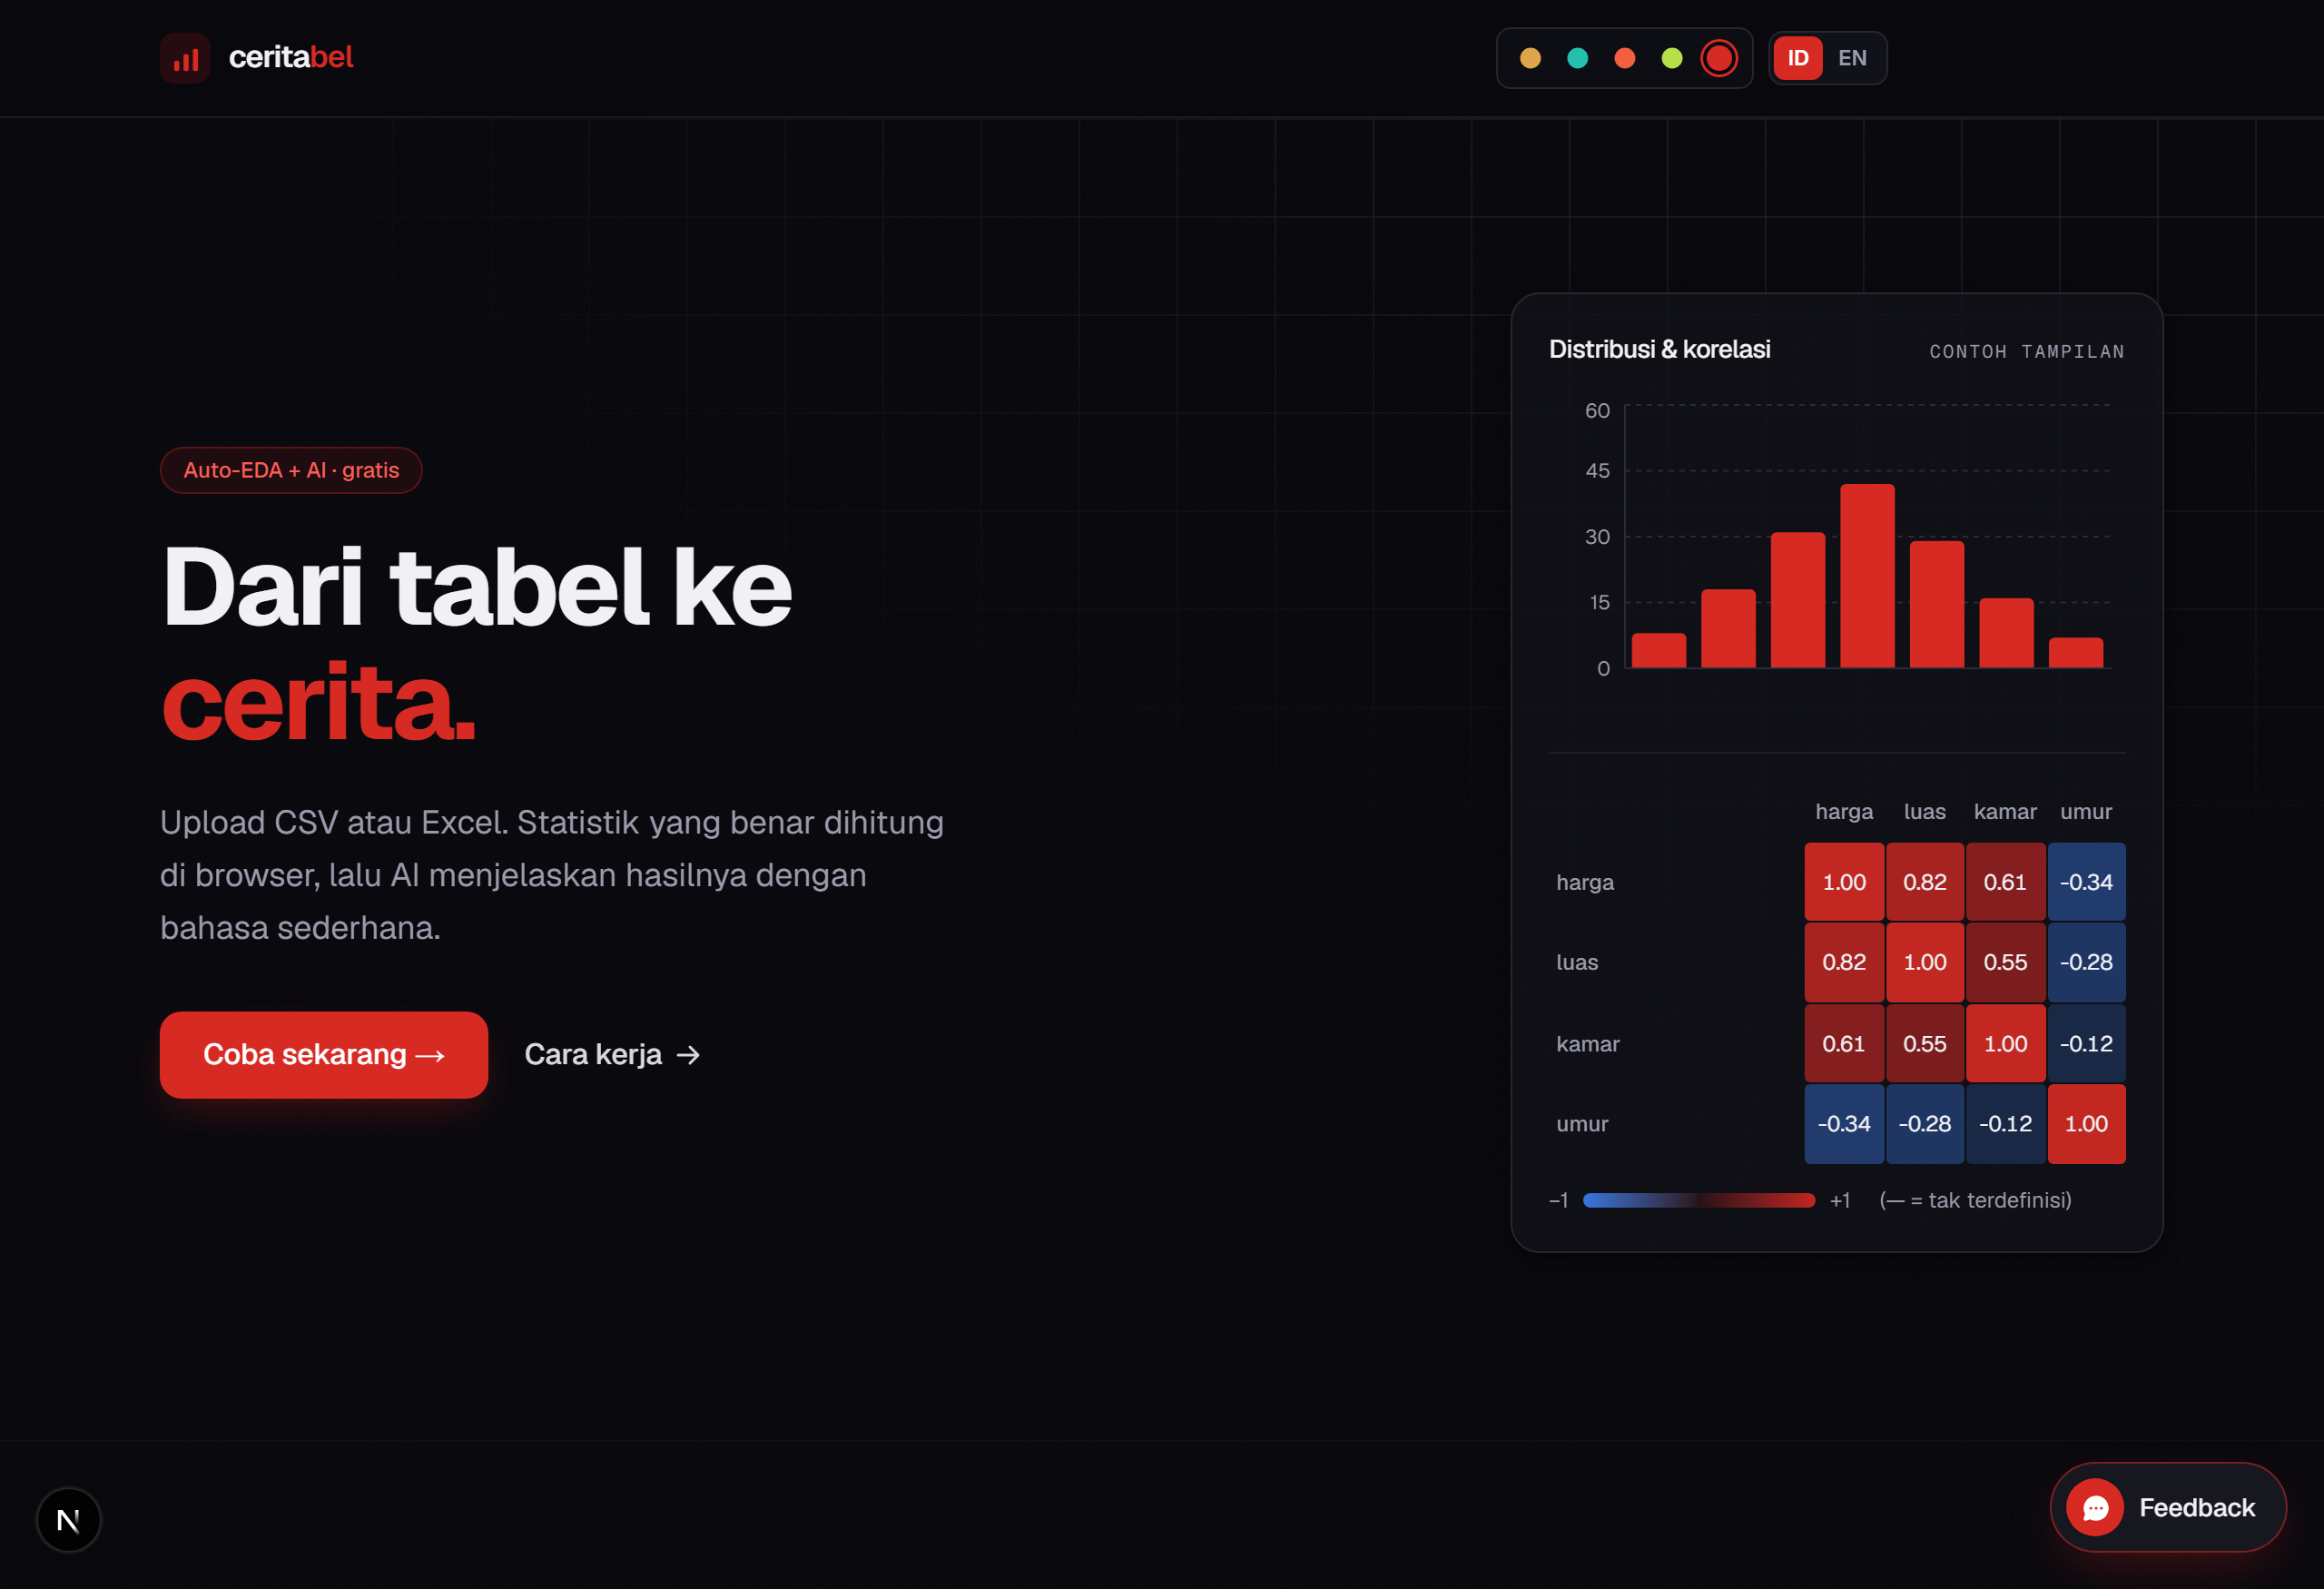
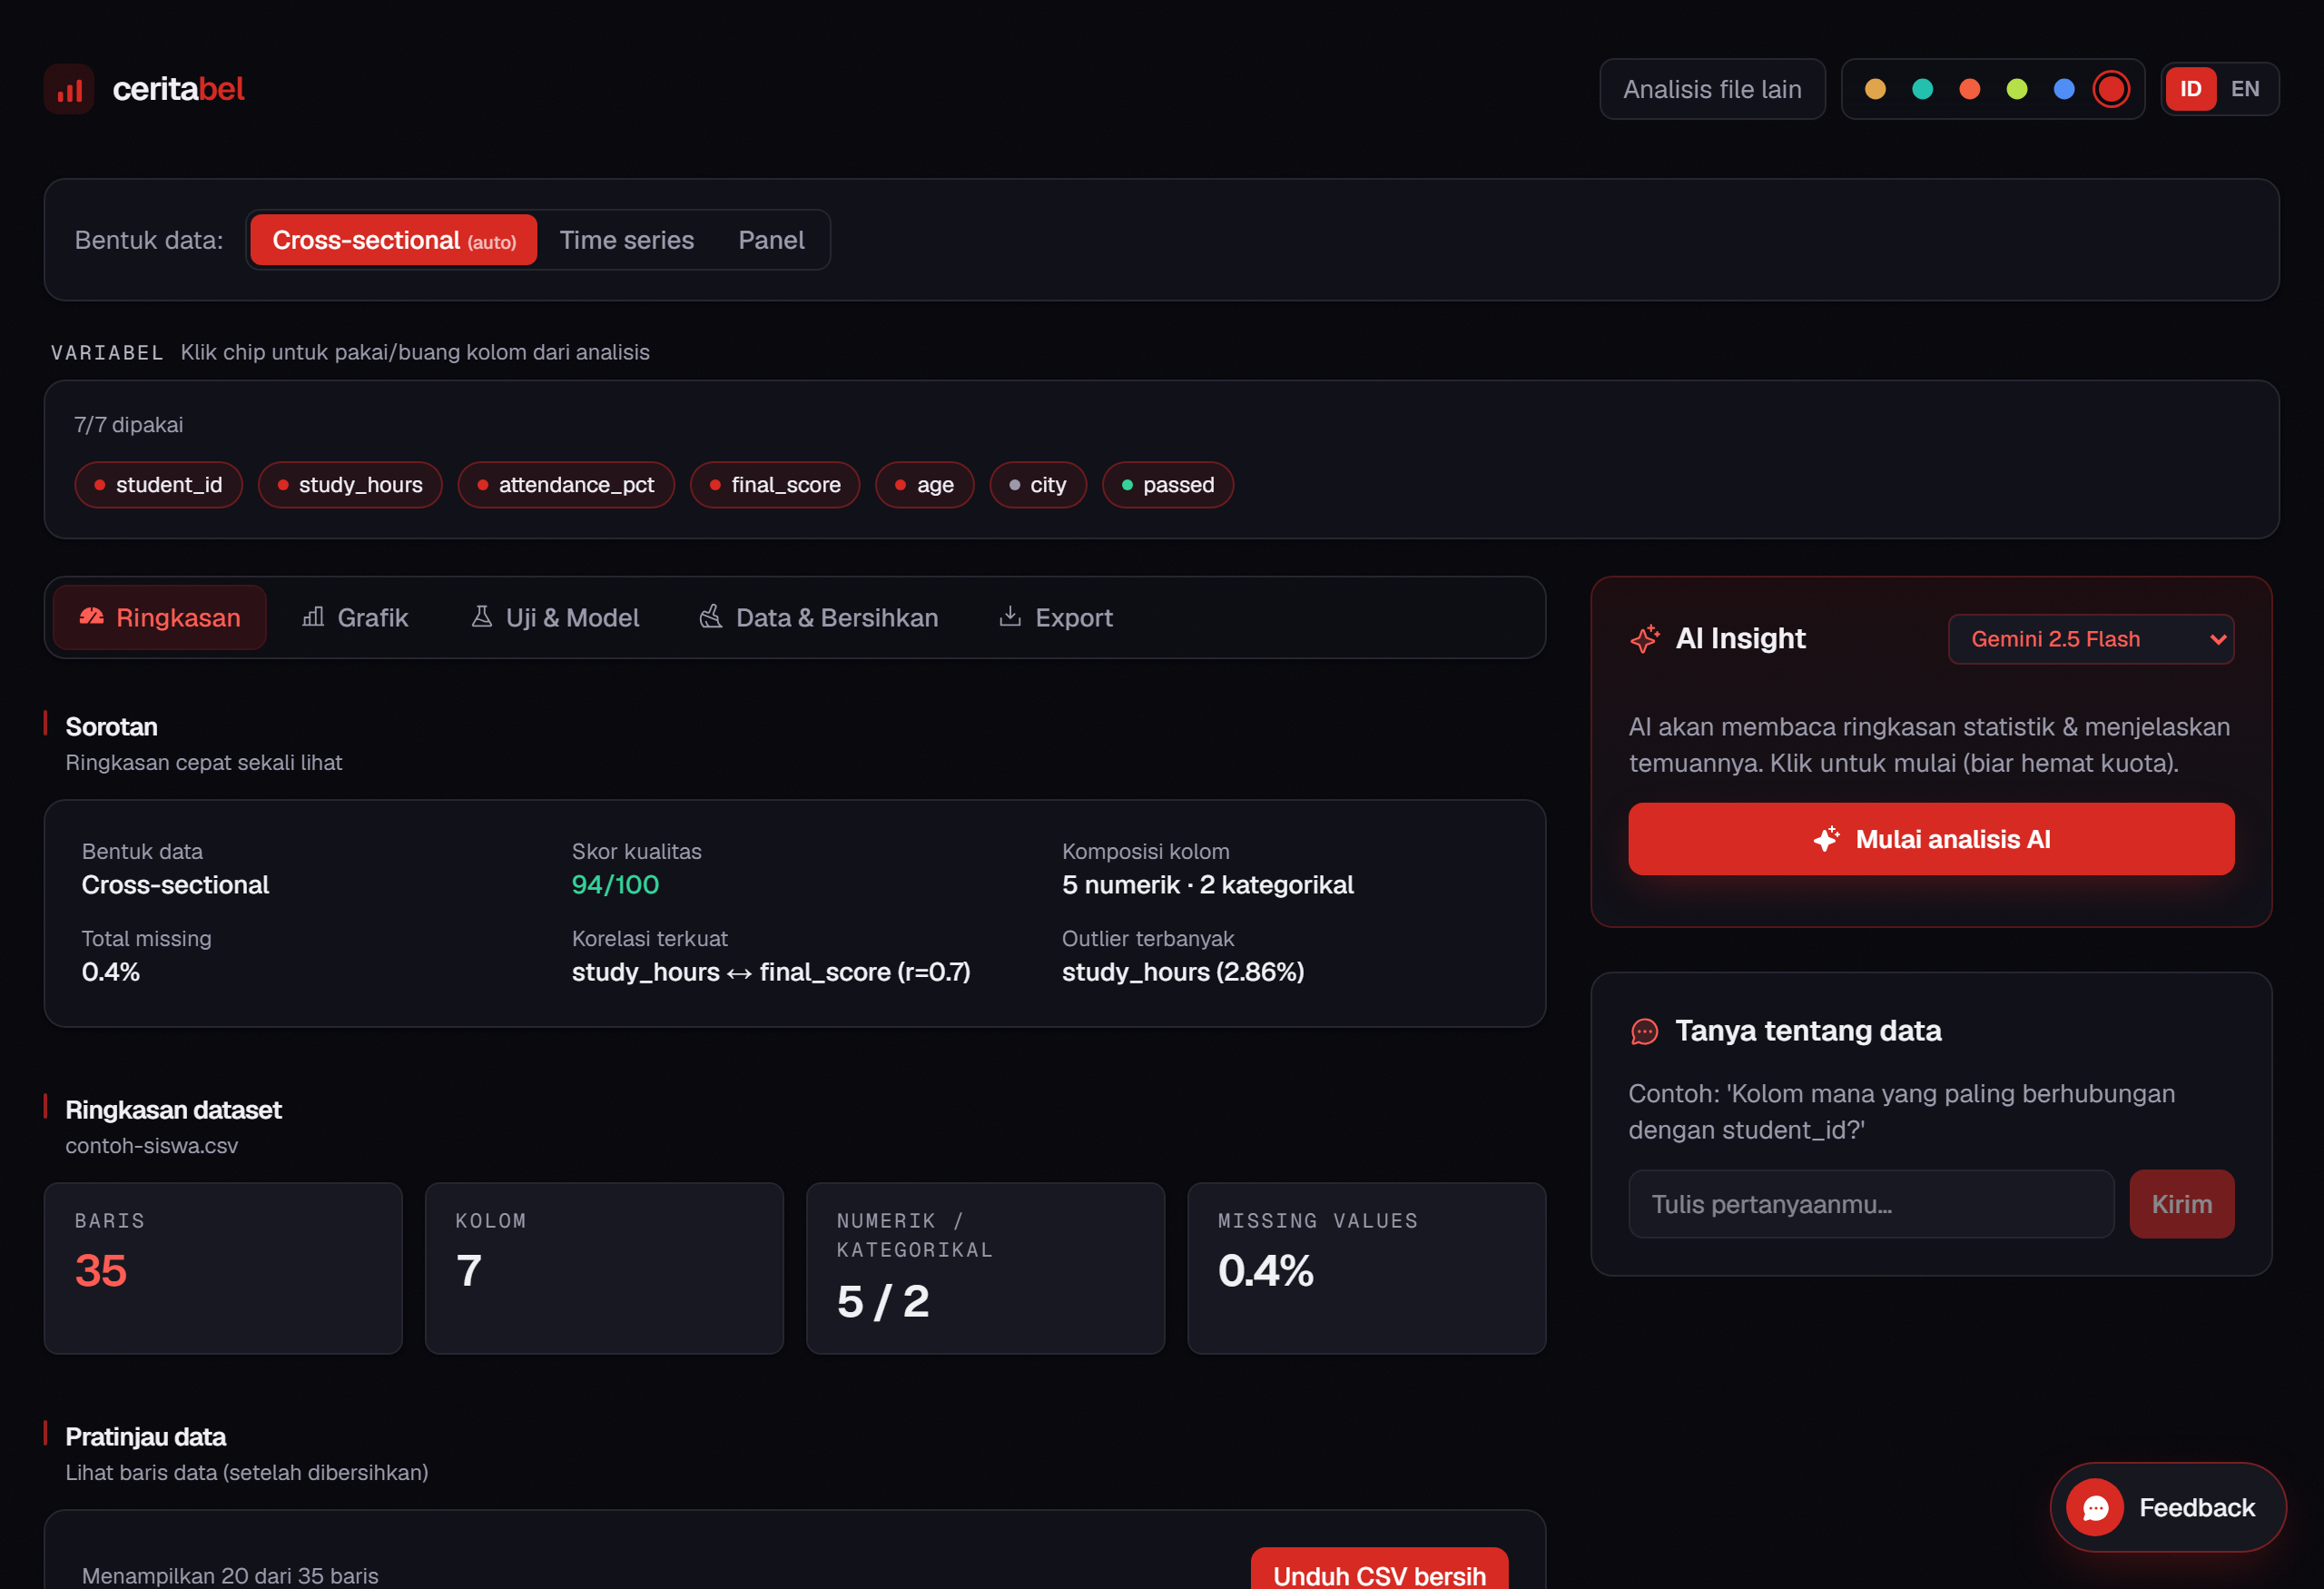
retake ceritabel, xeleven, after-hours screenshots and update their alt text

diff --git a/src/app/minimal/page.tsx b/src/app/minimal/page.tsx
@@ -115,7 +115,7 @@ function Work() {
         <Reveal className="mt-10">
           <Shot
             src="/projects/ceritabel.png"
-            alt="ceritabel: a regression results table with assumption checks and an AI explanation panel"
+            alt="ceritabel: dataset summary with a quality score, variable chips, and an AI insight panel"
             priority
             aspect="aspect-[16/9]"
             sizes="(max-width: 1024px) 92vw, 976px"
@@ -193,7 +193,7 @@ function Work() {
             </div>
             <Shot
               src="/projects/xeleven.png"
-              alt="xEleven: Premier League standings dashboard with club form and stats"
+              alt="xEleven: Premier League overview with a season selector and the toolbox of analytics tools"
               sizes="(max-width: 768px) 92vw, 480px"
             />
           </div>

diff --git a/src/components/live/work-showcase.tsx b/src/components/live/work-showcase.tsx
@@ -35,7 +35,7 @@ const entries: Entry[] = [
       "Full statistical workflow in the browser: EDA, hypothesis tests, OLS with assumption checks, panel and time-series models. Unit-tested against R, about 80 tests.",
     stack: "Next.js, TypeScript, Vitest, Gemini / Groq",
     image: "/projects/ceritabel.png",
-    alt: "ceritabel: regression output with assumption checks and AI explanation",
+    alt: "ceritabel: dataset summary with a quality score, variable chips, and an AI insight panel",
     liveUrl: "https://ceritabel.vercel.app/analyze?sample=siswa",
   },
   {
@@ -45,7 +45,7 @@ const entries: Entry[] = [
       "Premier League analytics and season management: nine tools over a live football-data API, including a full Manager Mode. Born as my thesis.",
     stack: "Next.js, TypeScript, Recharts",
     image: "/projects/xeleven.png",
-    alt: "xEleven: Premier League standings dashboard",
+    alt: "xEleven: Premier League overview with a season selector and the toolbox of analytics tools",
     liveUrl: "https://epl-xeleven.vercel.app/",
     caseStudyUrl: "/work/xeleven",
   },

diff --git a/src/app/work/xeleven/page.tsx b/src/app/work/xeleven/page.tsx
@@ -56,7 +56,7 @@ export default function XelevenCaseStudy() {
       ]}
       image={{
         src: "/projects/xeleven.png",
-        alt: "xEleven dashboard with Premier League standings and club form",
+        alt: "xEleven overview page with a season selector and the toolbox of analytics tools",
       }}
       liveUrl="https://epl-xeleven.vercel.app/"
       chapters={chapters}